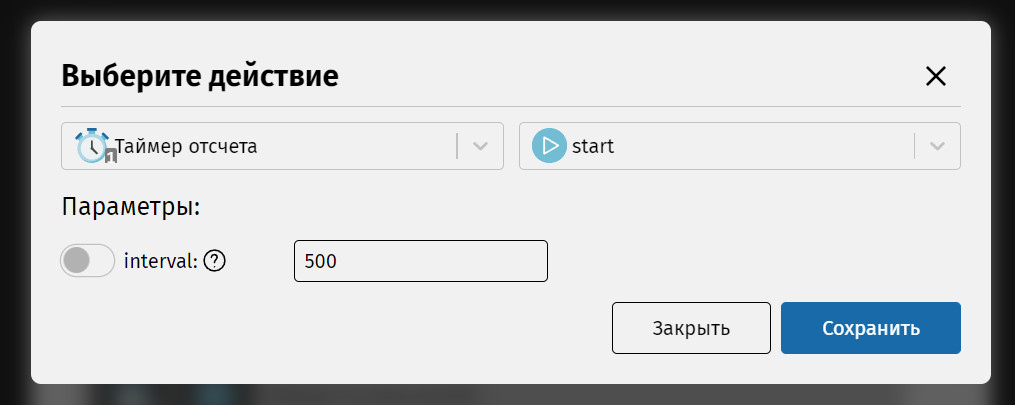
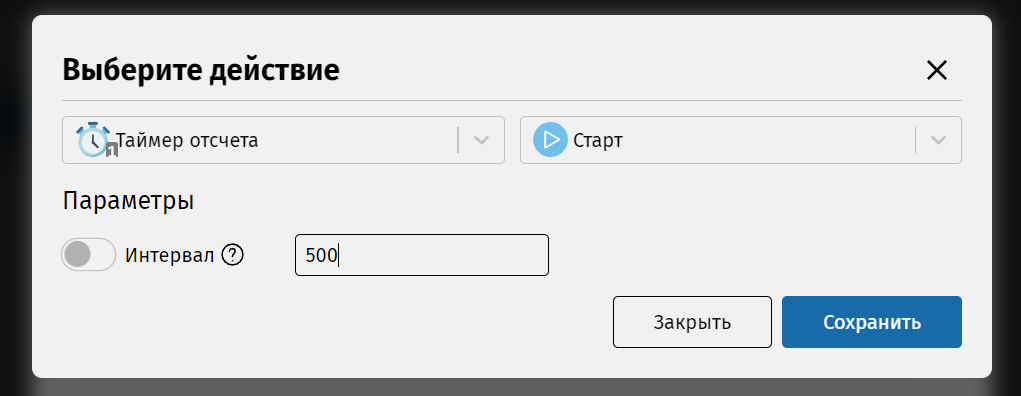
09 Запуск таймера

diff --git a/docs/02 Быстрый старт/09 Запуск таймера.html b/docs/02 Быстрый старт/09 Запуск таймера.html
@@ -17,9 +17,9 @@
     <p class="mt-3">
       Чтобы у нас появилось событие «прошло 0,5 секунды», нужно запустить отсчет
       таймера. Для этого откройте редактор состояния «Включен» и добавьте
-      действие для таймера аналогичным образом. Это будет «Timer.start». Здесь
-      важно указать интервал срабатывания таймера, введите соответствующее число
-      (в миллисекундах) в текстовое поле параметра.
+      действие для таймера аналогичным образом. Это будет «Старт». Здесь важно
+      указать интервал срабатывания таймера, введите соответствующее число (в
+      миллисекундах) в текстовое поле параметра.
     </p>
     <a class="mt-1"
       ><img src="../../img/quick-start/timer-action.png" width="100%"
@@ -32,16 +32,43 @@
         задачи).</em
       >
     </p>
-    <a class="mt-1"
-      ><img
-        src="../../img/quick-start/event-actions-timer-led.png"
-        width="100%"
-    /></a>
+
     <p class="mt-3 text-bg-warning p-2">
       Не забудьте нажать на кнопку «Сохранить».
     </p>
-    <a class="mt-1"
-      ><img src="../../img/quick-start/state-with-timer-led.png" width="100%"
-    /></a>
+
+    <details>
+      <summary><b>Кибермишка</b></summary>
+
+      <a class="mt-1"
+        ><img
+          src="../../img/quick-start/state-with-timer-pallete.png"
+          width="100%"
+      /></a>
+
+      <br />
+      <br />
+
+      <a class="mt-1"
+        ><img src="../../img/quick-start/event-actions-blg.png" width="100%"
+      /></a>
+    </details>
+
+    <br />
+
+    <details>
+      <summary><b>МС-ТЮК</b></summary>
+
+      <a class="mt-1"
+        ><img src="../../img/quick-start/state-with-timer-led.png" width="100%"
+      /></a>
+
+      <br />
+      <br />
+
+      <a class="mt-1"
+        ><img src="../../img/quick-start/event-actions-ms.png" width="100%"
+      /></a>
+    </details>
   </body>
 </html>
